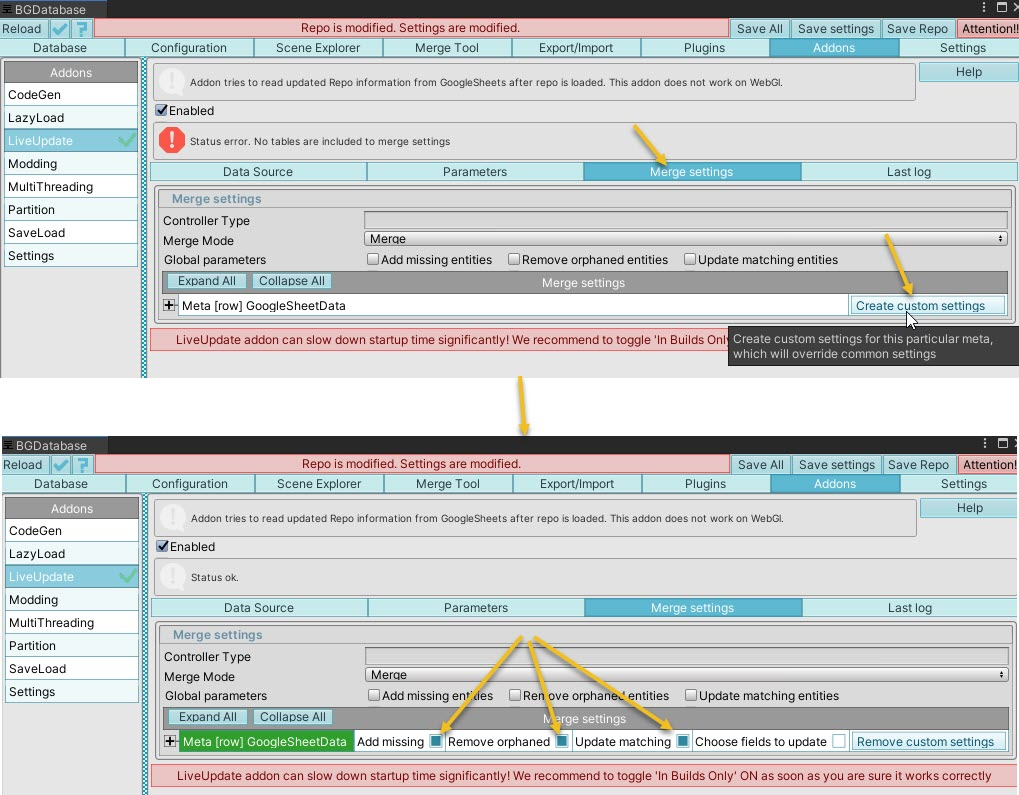
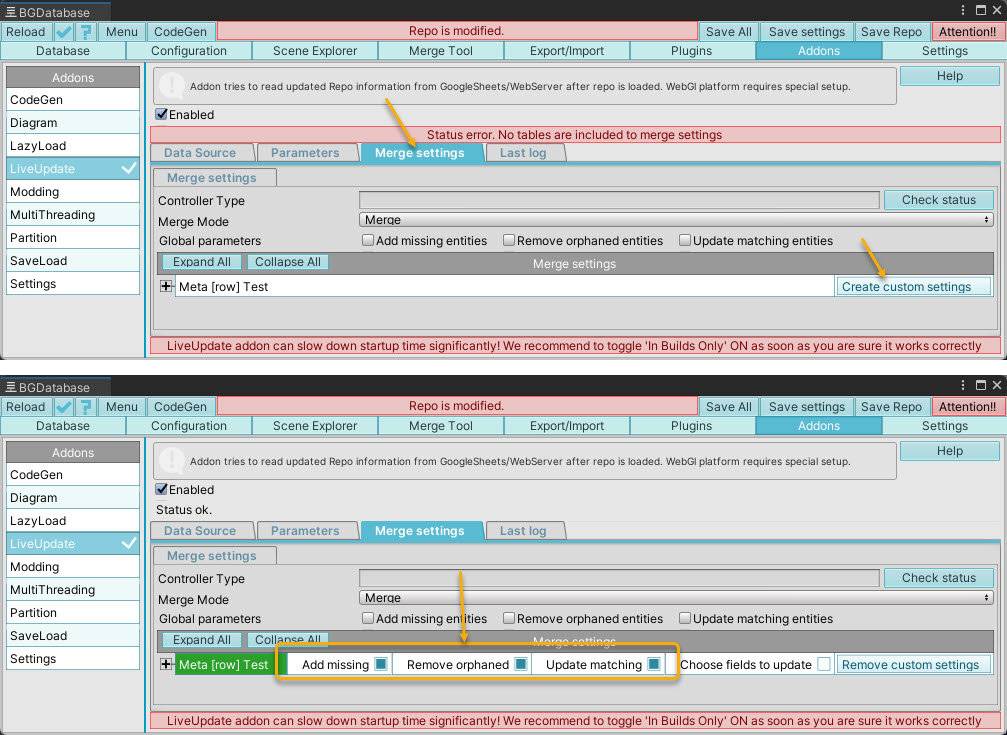
liveupdate guides fix

diff --git a/BGDatabase/Addons/LiveUpdate/Basic/index.html b/BGDatabase/Addons/LiveUpdate/Basic/index.html
@@ -384,8 +384,8 @@
 
     </li>
     <li>
-        Switch to LiveUpdate addon "Merge settings" tab and include "GoogleSheetData" table by pressing on
-        "Create custom settings" and then toggling on these parameters : "Add missing", "Delete orphaned" and "Update
+        Switch to LiveUpdate addon "Merge settings" tab and include "Test" table by pressing on
+        "Create custom settings" and then toggling on the following parameters : "Add missing", "Delete orphaned" and "Update
         matching"
         <div class="bg-image">
             <a href="../../../../images/BGDatabase/Guide1_8.jpg"><img style="width: 400px; height: 100px"

diff --git a/src/templates/BGDatabase/Addons/LiveUpdate/Basic/index.html b/src/templates/BGDatabase/Addons/LiveUpdate/Basic/index.html
@@ -69,8 +69,8 @@
 
     </li>
     <li>
-        Switch to LiveUpdate addon "Merge settings" tab and include "GoogleSheetData" table by pressing on
-        "Create custom settings" and then toggling on these parameters : "Add missing", "Delete orphaned" and "Update
+        Switch to LiveUpdate addon "Merge settings" tab and include "Test" table by pressing on
+        "Create custom settings" and then toggling on the following parameters : "Add missing", "Delete orphaned" and "Update
         matching"
         <div class="bg-image">
             <a href="../../../../images/BGDatabase/Guide1_8.jpg"><img style="width: 400px; height: 100px"
